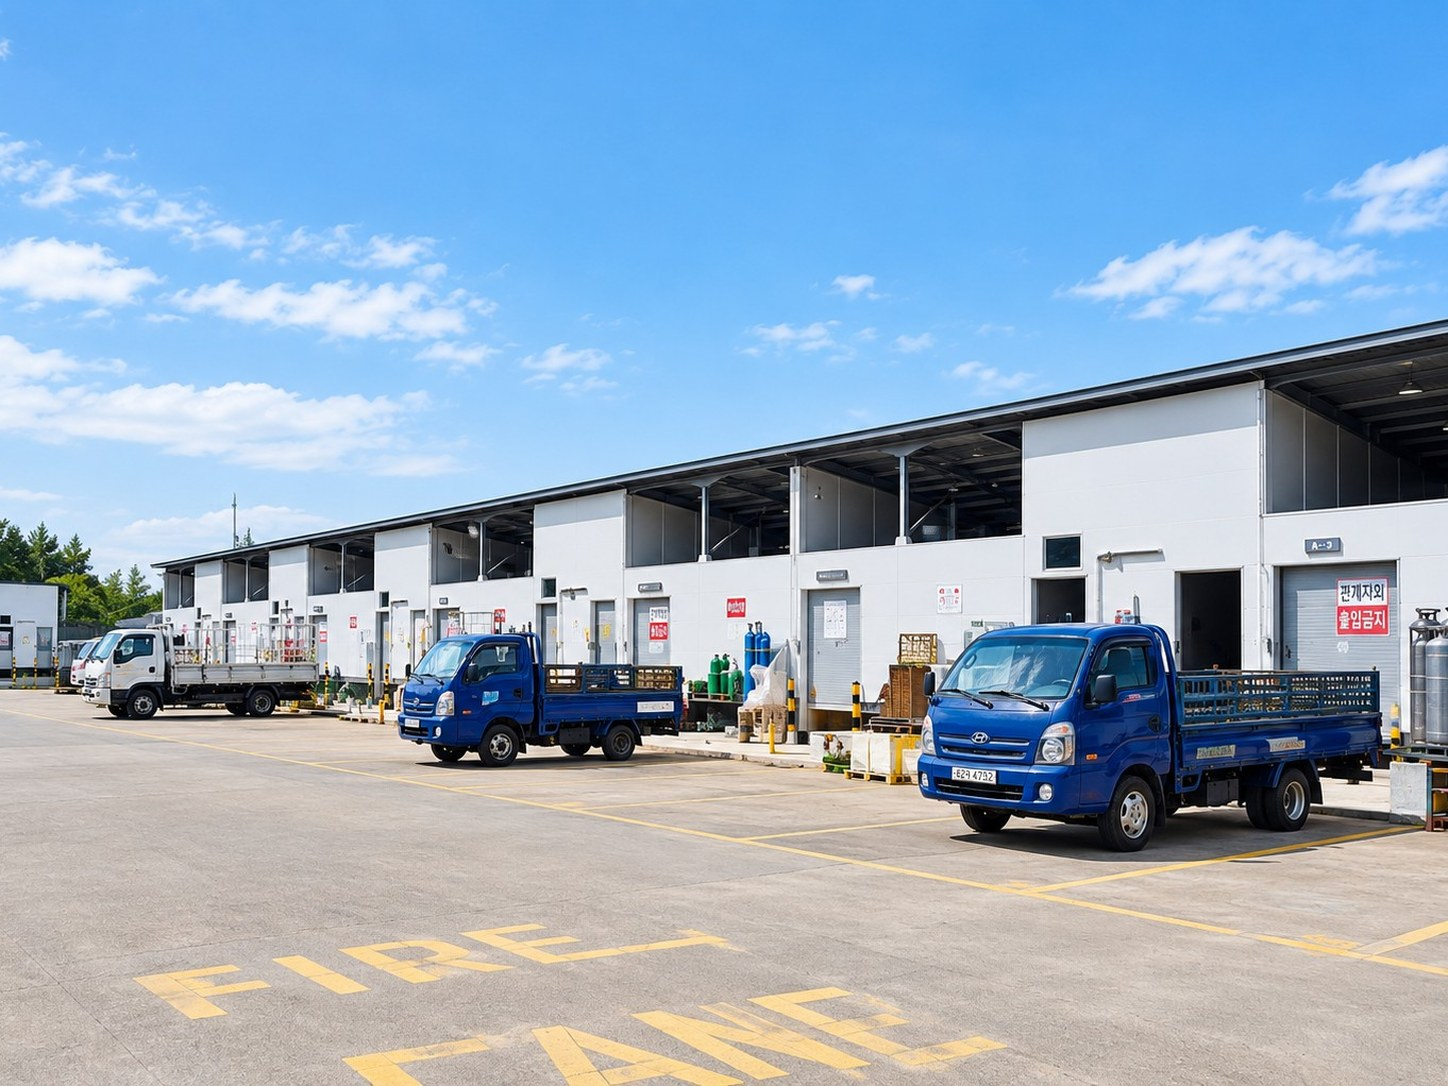
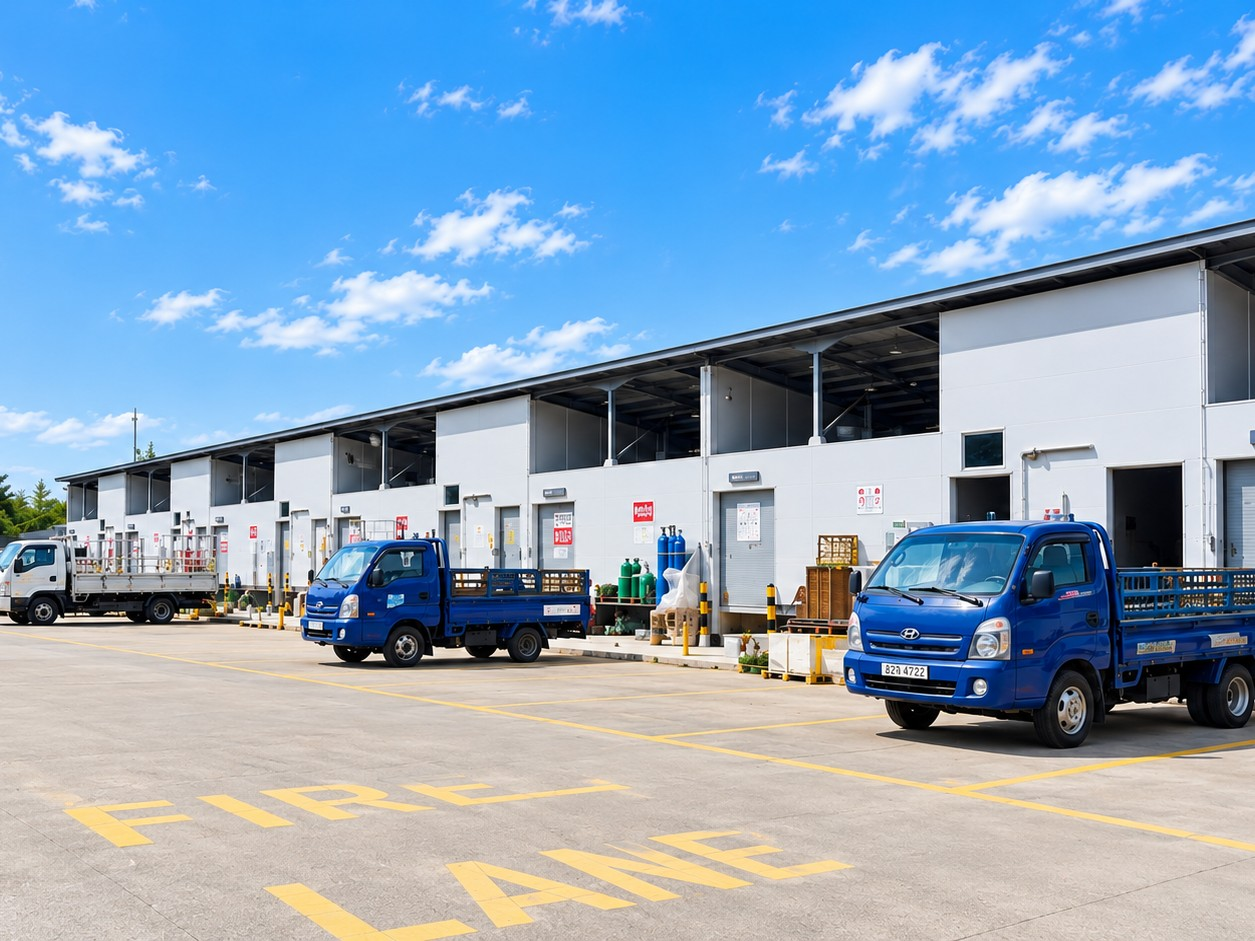
계열사 시화영업소 사진을 새 사업장 전경 이미지로 교체(sihwa-site.jpg ?v=20260914b)

diff --git a/support.html b/support.html
@@ -158,7 +158,7 @@
             </div>
           </article>
           <article class="officecard">
-            <div class="officecard__media"><img src="assets/images/site/sihwa-site.jpg?v=20260914" alt="시화영업소 전경" loading="lazy"><span class="officecard__badge officecard__badge--img" aria-hidden="true"><img src="assets/images/site/orgchart/ic-sihwa.png?v=20260828" alt="" loading="lazy"></span></div>
+            <div class="officecard__media"><img src="assets/images/site/sihwa-site.jpg?v=20260914b" alt="시화영업소 전경" loading="lazy"><span class="officecard__badge officecard__badge--img" aria-hidden="true"><img src="assets/images/site/orgchart/ic-sihwa.png?v=20260828" alt="" loading="lazy"></span></div>
             <div class="officecard__body">
               <h3>시화영업소</h3>
               <p class="officecard__addr">경기도 시흥시 오이도로 22-29</p>

diff --git a/company-network.html b/company-network.html
@@ -206,7 +206,7 @@
                 </a>
               </div>
               <div class="affpanel__media">
-                <img src="assets/images/site/sihwa-site.jpg?v=20260914" alt="시화영업소 전경" loading="lazy">
+                <img src="assets/images/site/sihwa-site.jpg?v=20260914b" alt="시화영업소 전경" loading="lazy">
               </div>
             </div>
           </div>
